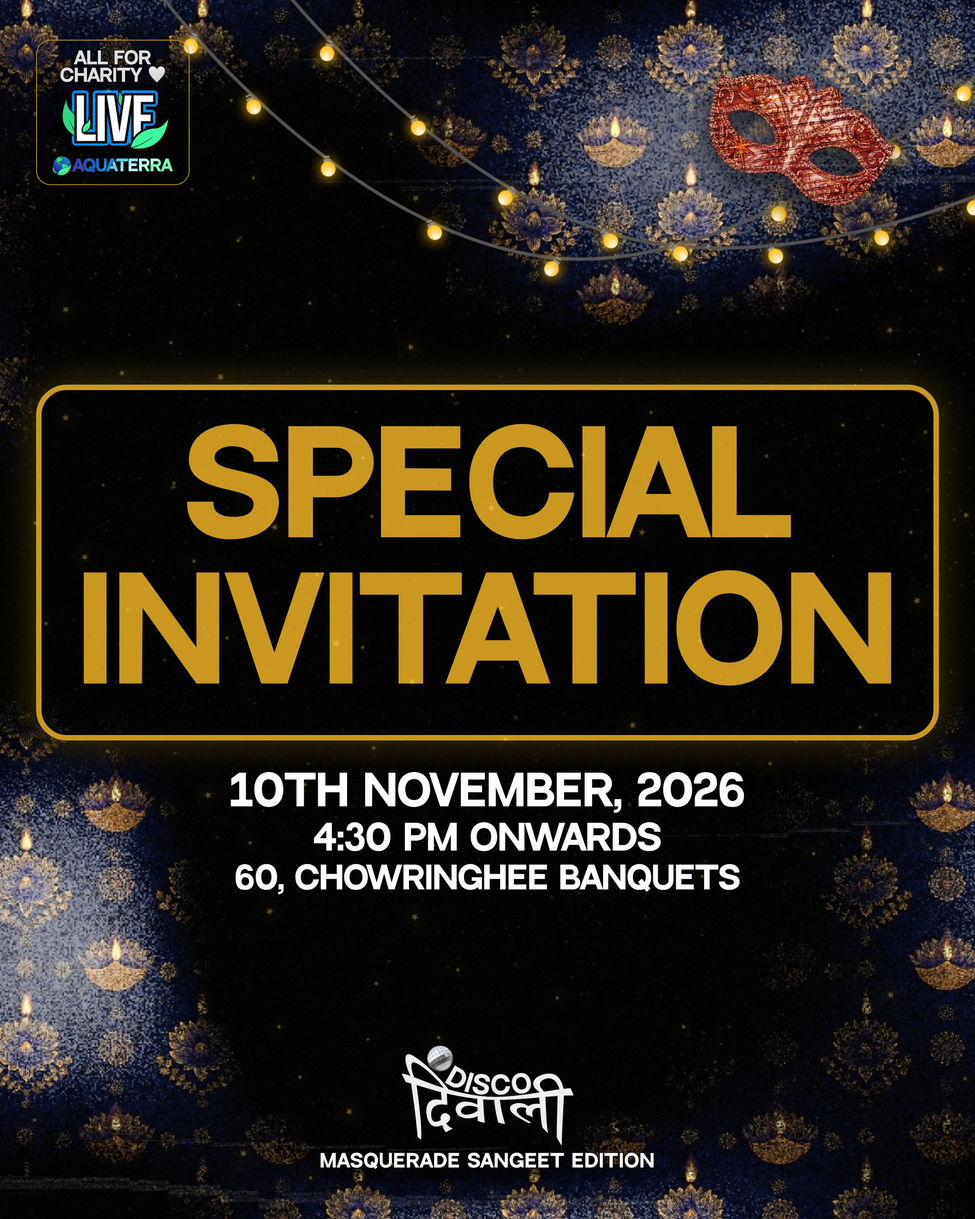
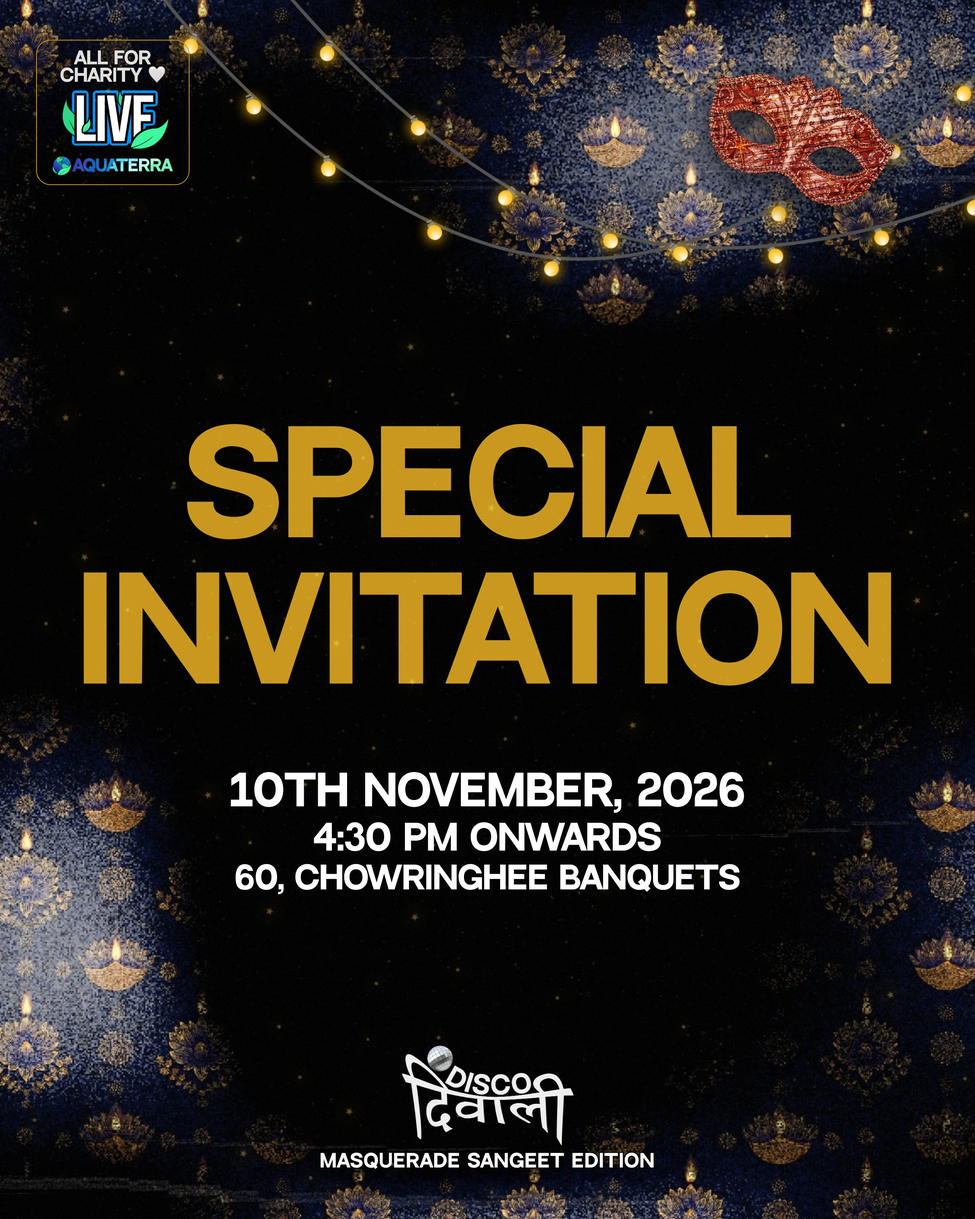
Special invitation poster v7: box outline, fill and glow removed
Claude-Session: https://claude.ai/code/session_01Hjb3YdETYzUX9KQBuy3LJ5

Changed region(s): [[0.031, 0.3111, 0.9926, 0.6222]]

diff --git a/scratchpad/dd_invite2.py b/scratchpad/dd_invite2.py
@@ -1,5 +1,5 @@
 """DISCO DIWALI "SPECIAL INVITATION" v2 (user, 2026-11-07: 'SPECIAL INVITATION and Rs.550 highlighted, reduce the Disco Diwali text and place it at the footer').
-The invitation line and the fee are the hero: a gold-framed panel, SPECIAL INVITATION in gold, SPECIAL over INVITATION in gold, one size, INVITATION measured to fill the panel (v6, user 2026-11-07: the entry fee is REMOVED, so no price is printed). The date, time and venue sit
+The invitation line and the fee are the hero: no box (v7, user 2026-11-07: outline removed), SPECIAL INVITATION in gold, SPECIAL over INVITATION in gold, one size, INVITATION measured to fill the panel (v6, user 2026-11-07: the entry fee is REMOVED, so no price is printed). The date, time and venue sit
 under the panel. The lockup (with ball) is shrunk to a footer mark with the edition line beneath it. Built on the Sign primitives (beaded celestial ground, string lights, LIVE badge,
 copper mask) at feed 1080x1350 and story 1080x1920 (top 200 and bottom 250 clear for Instagram's bars). Supplied facts only: 10th November 2026, 4:30 PM onwards, 60 Chowringhee
 Banquets. Run: PYTHONIOENCODING=utf-8 python scratchpad/dd_invite2.py -> out/discodiwali/invite2/{feed,story}.png"""
@@ -46,8 +46,6 @@ async def build(H):
     zone0, zone1 = (440, 1450) if story else (300, 1130)       # between the mask/badge and the footer mark
     py = zone0 + max(0, (zone1 - zone0 - (ph + gap_pi + info_h)) // 2)
     print(f"   sizes: special {f_sp}, invitation {f_inv}; panel {ph}px at y={py}")
-    s.add("panel", px, py, pw, ph, f'<div style="height:{ph}px;border-radius:34px;border:6px solid {GOLD};box-sizing:border-box;background:rgba(0,0,0,.62);box-shadow:0 0 40px rgba(201,151,28,.35),0 16px 40px rgba(0,0,0,.6)"></div>', z=15, declare=False)
-    s.els.append(("panel", px, py, pw, ph))
     y = s.text("invite1", "Special", py + pad, f_sp, color=GOLD, x=px, w=pw)
     y = s.text("invite2", "Invitation", y + gap, f_inv, color=GOLD, x=px, w=pw)
     iy = py + ph + gap_pi
@@ -67,6 +65,6 @@ async def main():
             s, (info_end, ly) = await build(H)
             print(f"[{name}] info ends y={info_end}, lockup starts y={ly}")
             await B.render(B.page(W, H, "#000", "".join(s.parts), grain=False), os.path.join(OUT, f"{name}.png"), W, H, elements=s.els, bleed_tags=("plate",), crop_tags=("plate",),
-                           page_bg="#000", containers=("panel",), text_pairs=[("text", "#fff", "#000", 40, True), ("gold", GOLD, "#000", 80, True)])
+                           page_bg="#000", text_pairs=[("text", "#fff", "#000", 40, True), ("gold", GOLD, "#000", 80, True)])
     print("done ->", OUT)
 asyncio.run(main())
